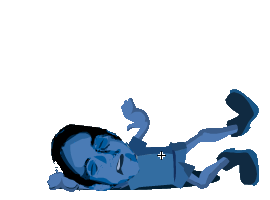
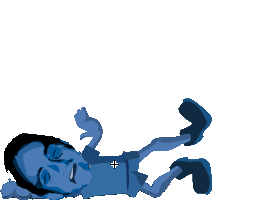
updates

Changed region(s): [[0.0, 0.42, 0.9778, 1.0]]

diff --git a/js/game.js b/js/game.js
@@ -54,8 +54,8 @@ function create() {
     x: 450,
     y: 195,
     ease: function (t) {
-      console.log('x: ' + Math.floor(rightWall.x), 'y: ' + Math.floor(rightWall.y),
-        'scale: ' + rightWall.scale);
+      // console.log('x: ' + Math.floor(rightWall.x), 'y: ' + Math.floor(rightWall.y),
+      //   'scale: ' + rightWall.scale);
       return Math.pow(Math.sin(t * 1), 1);
     },
     paused: true,
@@ -64,7 +64,7 @@ function create() {
     duration: 7500,
   });
 
-  this.add.image(320, 210, 'buildings').setOrigin(0, 0).setScale(.5);
+  //  this.add.image(320, 210, 'buildings').setOrigin(0, 0).setScale(.5);
 
   DrawShadows(this);
 
@@ -83,14 +83,19 @@ function create() {
 
   head = this.add.image(0, -130, 'head');
   head2 = this.add.image(0, -130, 'head');
+  head3 = this.add.image(0, -130, 'head');
   leftArm = this.add.image(40, -70, 'leftArm');
   leftArm2 = this.add.image(40, -70, 'leftArm');
   bottle = this.add.image(70, -50, 'bottle');
   bottle2 = this.add.image(70, -50, 'bottle');
+  drinking = this.add.image(20, -105, 'drinking');
   rightArm = this.add.image(-25, -95, 'rightArm').setOrigin(1, 0);
   rightArm2 = this.add.image(-25, -95, 'rightArm2').setOrigin(1, 0);
+  rightArm3 = this.add.image(-25, -95, 'rightArm2').setOrigin(1, 0);
   body = this.add.image(-10, -70, 'body');
   legs = this.add.sprite(-10, 30, 'legs');
+  body2 = this.add.image(-10, -70, 'body');
+  legs2 = this.add.sprite(-10, 30, 'legs');
   bodyandlegs = this.add.image(-10, -10, 'body&legs');
   this.anims.create({
     key: 'walk',
@@ -105,11 +110,19 @@ function create() {
   start.name = 'start';
   start.setInteractive();
   this.input.on('gameobjectdown', onObjectClicked);
-  drunkardWalking = this.add.container(centerX - 40, centerY + 100, [body, legs, head, leftArm, rightArm, bottle]);
+  drunkX = centerX - 40;
+  drunkardWalking = this.add.container(drunkX, centerY + 100, [body, legs, head, leftArm, rightArm, bottle]);
   drunkardWalking.setSize(64, 64);
   drunkardWalking.visible = false;
-  drunkardStanding = this.add.container(centerX - 40, centerY + 100, [bodyandlegs, head2, leftArm2, rightArm2, start, bottle2]);
+  drunkardDrinking = this.add.container(drunkX, centerY + 100, [body2, legs2, head3, rightArm3, drinking]);
+  drunkardDrinking.setSize(64, 64);
+  drunkardDrinking.visible = false;
+  drunkardStanding = this.add.container(drunkX, centerY + 100, [bodyandlegs, head2, leftArm2, rightArm2, start, bottle2]);
   drunkardStanding.setSize(64, 64);
+  startover = this.add.image(800, 350, 'startover');
+  startover.visible = false;
+  startover.name = 'startover';
+  startover.setInteractive();
 
   scoreText = this.add.text(16, 16, 'Score: 0', {
     fontFamily: 'arial',
@@ -255,10 +268,12 @@ function stagger(mouseX) {
   let centerX = this.game.config.width / 2;
 
   if (standing) {
+    timeToDrink = Math.floor(Math.random() * 1000);
+
     randomizer = Math.floor(Math.random() * 4);
     wobble -= 0.5;
-    if (wobble < 3) {
-      wobble = 3;
+    if (wobble < wobbleThreshold) {
+      wobble = wobbleThreshold;
       fluctuation = 0.25;
     }
 
@@ -269,7 +284,22 @@ function stagger(mouseX) {
     if (corrector > randomizer)
       corrector -= .1;
     factor = mouseX / 40 - 10 + rotation / wobble;
-
+    if (timeToDrink == 999 && !drinking) {
+      drunkardWalking.visible = false;
+      drunkardDrinking.visible = true;
+      drinking = true;
+    }
+    if (drinking) {
+      drinkCount++;
+      console.log(drinkCount)
+      if (drinkCount > 100) {
+        drunkardDrinking.visible = false;
+        drunkardWalking.visible = true;
+        drinking = false;
+        wobbleThreshold += .2;
+        drinkCount = 0;
+      }
+    }
     rotation += (rotation + factor + corrector) / 1000; // * fluctuation;
     drunkardWalking.rotation = rotation;
     scoreText.setText('score: ' + score);
@@ -279,12 +309,14 @@ function stagger(mouseX) {
     drunkardWalking.x = centerX - 40 + drunkardWalking.rotation;
     if (drunkardWalking.rotation > .5 || drunkardWalking.rotation < -.5) {
       drunkardWalking.visible = false;
-      falling.x = drunkardWalking.x;
       falling.y = drunkardWalking.y;
-      if (drunkardWalking.rotation > .5)
+      if (drunkardWalking.rotation > .5) {
         falling.setScale(-1, 1);
-      else
+        falling.x = drunkardWalking.x + 50;
+      } else {
         falling.setScale(1, 1);
+        falling.x = drunkardWalking.x - 50;
+      }
       falling.visible = true;
       falling.play('falling');
       streetTween.pause();
@@ -295,7 +327,7 @@ function stagger(mouseX) {
       if (score > highScore)
         highScore = score;
       gameOverText.setText('GAME OVER\nYour Score: ' + score + '\nHigh Score: ' + highScore);
-
+      startover.visible = true;
       rotation = 0;
       standing = false;
       walking = false;

diff --git a/test/stumbleTest.js b/test/stumbleTest.js
@@ -30,6 +30,7 @@ let score = 0;
 let drunkard;
 let scoreText;
 let falling;
+let drunkardDrinking;
 
 function preload() {
   this.load.spritesheet('legs', '../assets/images/legsStrip.png', {
@@ -41,6 +42,7 @@ function preload() {
   this.load.image('leftArm', '../assets/images/leftArm.png');
   this.load.image('rightArm', '../assets/images/rightArm.png');
   this.load.image('bottle', '../assets/images/bottle.png');
+  this.load.image('drinking', '../assets/images/bottle drinking.png');
   this.load.animation('falling', '../assets/json/animations.json');
   this.load.path = '../assets/images/falling/';
   for (let index = 1; index < 9; index++) {
@@ -54,6 +56,7 @@ function create() {
   head = this.add.image(0, -130, 'head');
   leftArm = this.add.image(40, -70, 'leftArm');
   bottle = this.add.image(70, -50, 'bottle');
+  drinking = this.add.image(70, -50, 'drinking');
   rightArm = this.add.image(-25, -90, 'rightArm').setOrigin(1, 0);
   body = this.add.image(-10, -70, 'body');
   legs = this.add.sprite(-10, 30, 'legs');
@@ -67,6 +70,9 @@ function create() {
     repeat: -1
   });
   drunkard = this.add.container(centerX, centerY, [body, legs, head, leftArm, rightArm, bottle]);
+  drunkardDrinking = this.add.container(centerX, centerY, [body, legs, head, leftArm, rightArm, drinking]);
+  drunkardDrinking.visible = false;
+
   scoreText = this.add.text(16, 16, 'score: 0', {
     fontFamily: 'arial',
     fontSize: '64px',

diff --git a/js/preload.js b/js/preload.js
@@ -31,6 +31,9 @@ function preload() {
   this.load.image('rightArm', 'rightArm.png');
   this.load.image('rightArm2', 'rightArm3.png');
   this.load.image('bottle', 'bottle.png');
+  this.load.image('drinking', 'bottle_drinking.png');
+  this.load.image('startover', 'startover.png');
+
   this.load.path = '../assets/images/falling/';
   for (let index = 1; index < 9; index++) {
     this.load.image('falling' + index, 'falling' + index + '.png');

diff --git a/js/boot.js b/js/boot.js
@@ -36,3 +36,8 @@ let streetTween;
 let awningTween;
 let leftWallTween;
 let rightWallTween;
+let timeToDrink;
+let drinkCount = 0;
+let drinking = false;
+let drunkX = 0;
+let wobbleThreshold = 3;

diff --git a/test/index.html b/test/index.html
@@ -2,7 +2,7 @@
 
 <head>
   <script src="../js/phaser.3.18.1.min.js"></script>
-  <script src="streetTest.js"></script>
+  <script src="stumbleTest.js"></script>
 </head>
 
 <body>
